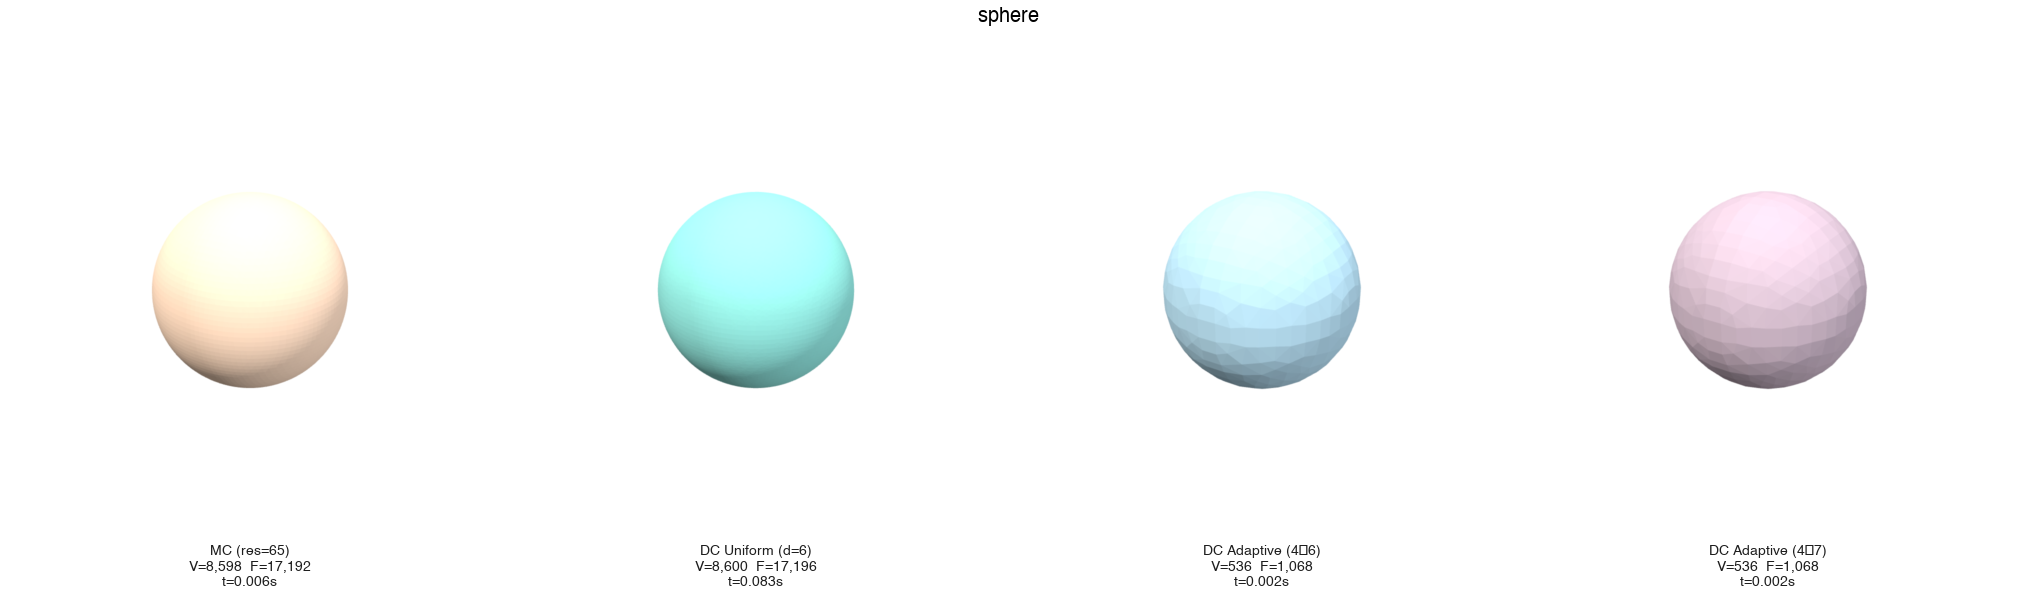
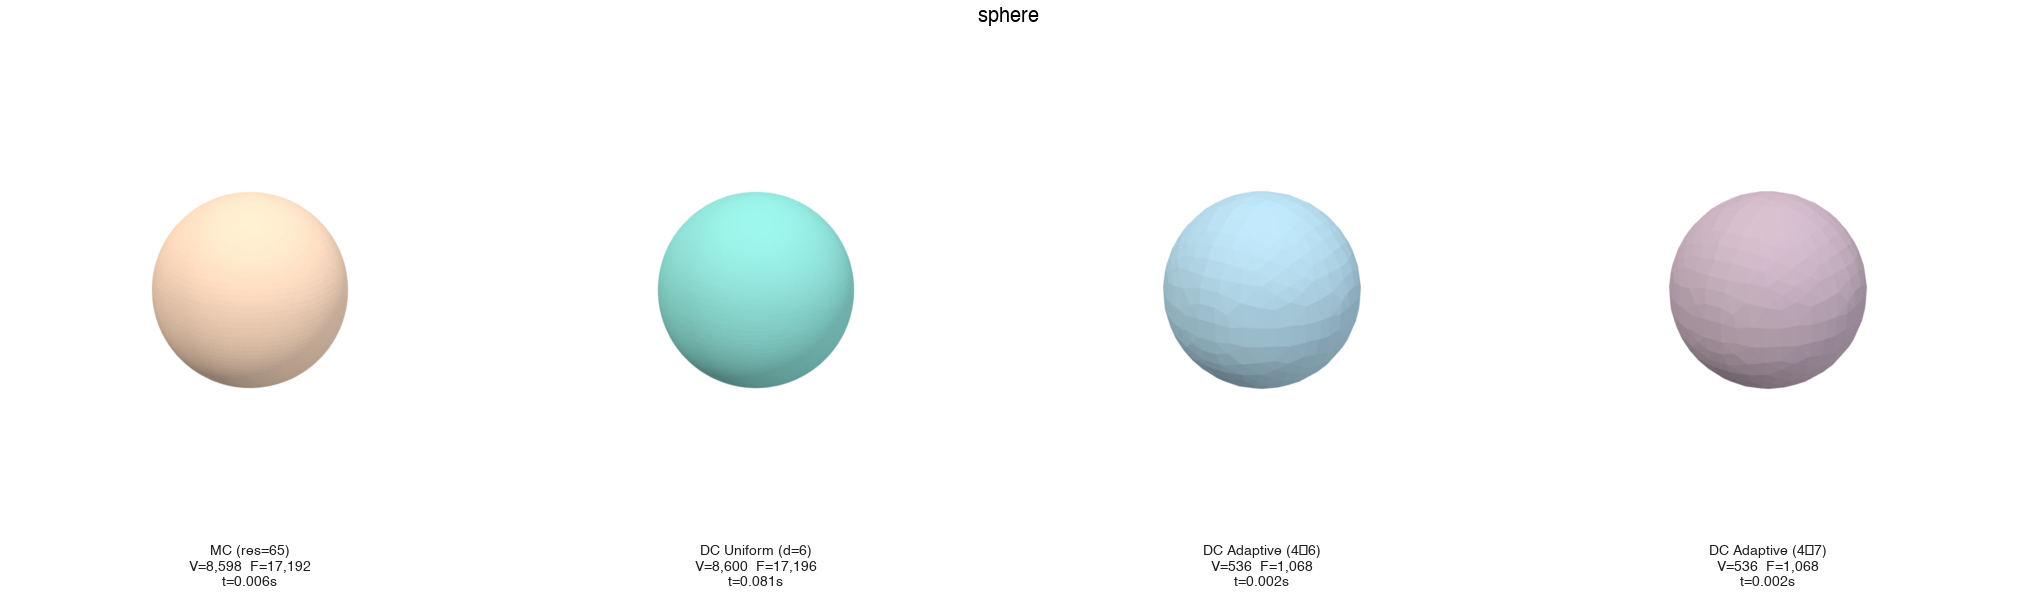
Reduce lighting intensity to fix overexposed benchmark renders
Lowered 3-point light intensities (key 4.5→2.5, fill 2.0→1.2, rim 1.5→0.8)
and raised ambient (0.2→0.3) to eliminate blown-out highlights, especially
on lighter-colored MC meshes.

diff --git a/benchmarks/run_benchmark.py b/benchmarks/run_benchmark.py
@@ -468,7 +468,7 @@ def _render_one(vertices, faces, color_rgb, renderer, elev=25, azim=-60):
 
     scene = pyrender.Scene(
         bg_color=[1.0, 1.0, 1.0, 1.0],
-        ambient_light=[0.2, 0.2, 0.2],
+        ambient_light=[0.3, 0.3, 0.3],
     )
     scene.add(pr_mesh)
 
@@ -483,19 +483,19 @@ def _render_one(vertices, faces, color_rgb, renderer, elev=25, azim=-60):
     # Key light — upper-left of camera
     key_p = _cam_pose(center, extent, elev + 30, azim - 40)
     scene.add(pyrender.DirectionalLight(
-        color=[1.0, 0.98, 0.95], intensity=4.5,
+        color=[1.0, 0.98, 0.95], intensity=2.5,
     ), pose=key_p)
 
     # Fill light — lower-right of camera, cooler
     fill_p = _cam_pose(center, extent, elev - 10, azim + 55)
     scene.add(pyrender.DirectionalLight(
-        color=[0.92, 0.95, 1.0], intensity=2.0,
+        color=[0.92, 0.95, 1.0], intensity=1.2,
     ), pose=fill_p)
 
     # Rim light — behind and above
     rim_p = _cam_pose(center, extent, elev + 50, azim + 160)
     scene.add(pyrender.DirectionalLight(
-        color=[1.0, 1.0, 1.0], intensity=1.5,
+        color=[1.0, 1.0, 1.0], intensity=0.8,
     ), pose=rim_p)
 
     color_img, _ = renderer.render(scene)

diff --git a/output/benchmark_report.md b/output/benchmark_report.md
@@ -6,49 +6,49 @@
 | Shape | Method | V | F | Time (s) | Manifold | Watertight | Euler | Mean SDF Err | Min∠ Mean | Min∠ P5 |
 |-------|--------|--:|--:|--------:|:--------:|:----------:|-----:|-----------:|--------:|------:|
 | sphere | MC (res=65) | 8,598 | 17,192 | 0.006 | ✓ | ✓ | 2 | 9.63e-05 | 31.6° | 5.7° |
-|  | DC Uniform (d=6) | 8,600 | 17,196 | 0.083 | ✓ | ✓ | 2 | 4.57e-17 | 45.2° | 33.3° |
+|  | DC Uniform (d=6) | 8,600 | 17,196 | 0.081 | ✓ | ✓ | 2 | 4.57e-17 | 45.2° | 33.3° |
 |  | DC Adaptive (4→6) | 536 | 1,068 | 0.002 | ✓ | ✓ | 2 | 8.85e-05 | 43.7° | 30.5° |
 |  | DC Adaptive (4→7) | 536 | 1,068 | 0.002 | ✓ | ✓ | 2 | 8.85e-05 | 43.7° | 30.5° |
 | torus | MC (res=65) | 6,448 | 12,896 | 0.004 | ✓ | ✓ | 0 | 2.34e-04 | 32.0° | 3.7° |
-|  | DC Uniform (d=6) | 6,448 | 12,896 | 0.133 | ✓ | ✓ | 0 | 1.55e-05 | 41.0° | 26.2° |
-|  | DC Adaptive (4→6) | 6,448 | 12,896 | 0.036 | ✓ | ✓ | 0 | 1.55e-05 | 41.0° | 26.2° |
-|  | DC Adaptive (4→7) | 6,448 | 12,896 | 0.036 | ✓ | ✓ | 0 | 1.55e-05 | 41.0° | 26.2° |
+|  | DC Uniform (d=6) | 6,448 | 12,896 | 0.141 | ✓ | ✓ | 0 | 1.55e-05 | 41.0° | 26.2° |
+|  | DC Adaptive (4→6) | 6,448 | 12,896 | 0.038 | ✓ | ✓ | 0 | 1.55e-05 | 41.0° | 26.2° |
+|  | DC Adaptive (4→7) | 6,448 | 12,896 | 0.035 | ✓ | ✓ | 0 | 1.55e-05 | 41.0° | 26.2° |
 
 ## Sharp Features
 
 | Shape | Method | V | F | Time (s) | Manifold | Watertight | Euler | Mean SDF Err | Min∠ Mean | Min∠ P5 |
 |-------|--------|--:|--:|--------:|:--------:|:----------:|-----:|-----------:|--------:|------:|
-| box | MC (res=65) | 11,094 | 22,184 | 0.009 | ✓ | ✓ | 2 | 0.00e+00 | 44.1° | 45.0° |
-|  | DC Uniform (d=6) | 11,096 | 22,188 | 0.190 | ✓ | ✓ | 2 | 7.51e-10 | 44.5° | 39.8° |
-|  | DC Adaptive (4→6) | 11,096 | 22,188 | 0.111 | ✓ | ✓ | 2 | 7.51e-10 | 44.5° | 39.8° |
-|  | DC Adaptive (4→7) | 43,352 | 86,700 | 0.741 | ✓ | ✓ | 2 | 1.92e-10 | 44.8° | 45.0° |
-| chamfered_sphere | MC (res=65) | 7,062 | 14,120 | 0.012 | ✓ | ✓ | 2 | 2.58e-04 | 35.5° | 6.1° |
-|  | DC Uniform (d=6) | 7,064 | 14,124 | 0.182 | ✓ | ✓ | 2 | 3.42e-05 | 43.1° | 22.1° |
+| box | MC (res=65) | 11,094 | 22,184 | 0.010 | ✓ | ✓ | 2 | 0.00e+00 | 44.1° | 45.0° |
+|  | DC Uniform (d=6) | 11,096 | 22,188 | 0.175 | ✓ | ✓ | 2 | 7.51e-10 | 44.5° | 39.8° |
+|  | DC Adaptive (4→6) | 11,096 | 22,188 | 0.114 | ✓ | ✓ | 2 | 7.51e-10 | 44.5° | 39.8° |
+|  | DC Adaptive (4→7) | 43,352 | 86,700 | 0.782 | ✓ | ✓ | 2 | 1.92e-10 | 44.8° | 45.0° |
+| chamfered_sphere | MC (res=65) | 7,062 | 14,120 | 0.011 | ✓ | ✓ | 2 | 2.58e-04 | 35.5° | 6.1° |
+|  | DC Uniform (d=6) | 7,064 | 14,124 | 0.197 | ✓ | ✓ | 2 | 3.42e-05 | 43.1° | 22.1° |
 |  | DC Adaptive (4→6) | 7,064 | 14,124 | 0.059 | ✓ | ✓ | 2 | 3.42e-05 | 43.1° | 22.1° |
-|  | DC Adaptive (4→7) | 27,656 | 55,308 | 0.322 | ✓ | ✓ | 2 | 4.58e-05 | 44.2° | 28.7° |
+|  | DC Adaptive (4→7) | 27,656 | 55,308 | 0.333 | ✓ | ✓ | 2 | 4.58e-05 | 44.2° | 28.7° |
 | cylinder | MC (res=65) | 4,326 | 8,648 | 0.004 | ✓ | ✓ | 2 | 2.12e-04 | 34.9° | 4.1° |
 |  | DC Uniform (d=6) | 4,328 | 8,652 | 0.124 | ✓ | ✓ | 2 | 8.94e-05 | 38.1° | 27.2° |
-|  | DC Adaptive (4→6) | 4,328 | 8,652 | 0.031 | ✓ | ✓ | 2 | 8.94e-05 | 38.1° | 27.2° |
-|  | DC Adaptive (4→7) | 17,488 | 34,972 | 0.186 | ✓ | ✓ | 2 | 1.07e-05 | 38.3° | 28.5° |
-| mechanical_part | MC (res=65) | 4,334 | 8,680 | 0.021 | ✓ | ✓ | -6 | 3.25e-04 | 40.3° | 10.1° |
-|  | DC Uniform (d=6) | 4,328 | 8,668 | 0.237 | ✓ | ✓ | -6 | 5.65e-05 | 41.0° | 31.9° |
-|  | DC Adaptive (4→6) | 4,328 | 8,668 | 0.042 | ✓ | ✓ | -6 | 5.65e-05 | 41.0° | 31.9° |
-|  | DC Adaptive (4→7) | 19,336 | 38,684 | 0.246 | ✓ | ✓ | -6 | 9.51e-06 | 39.7° | 26.9° |
+|  | DC Adaptive (4→6) | 4,328 | 8,652 | 0.030 | ✓ | ✓ | 2 | 8.94e-05 | 38.1° | 27.2° |
+|  | DC Adaptive (4→7) | 17,488 | 34,972 | 0.199 | ✓ | ✓ | 2 | 1.07e-05 | 38.3° | 28.5° |
+| mechanical_part | MC (res=65) | 4,334 | 8,680 | 0.020 | ✓ | ✓ | -6 | 3.25e-04 | 40.3° | 10.1° |
+|  | DC Uniform (d=6) | 4,328 | 8,668 | 0.234 | ✓ | ✓ | -6 | 5.65e-05 | 41.0° | 31.9° |
+|  | DC Adaptive (4→6) | 4,328 | 8,668 | 0.044 | ✓ | ✓ | -6 | 5.65e-05 | 41.0° | 31.9° |
+|  | DC Adaptive (4→7) | 19,336 | 38,684 | 0.243 | ✓ | ✓ | -6 | 9.51e-06 | 39.7° | 26.9° |
 
 ## Thin Features
 
 | Shape | Method | V | F | Time (s) | Manifold | Watertight | Euler | Mean SDF Err | Min∠ Mean | Min∠ P5 |
 |-------|--------|--:|--:|--------:|:--------:|:----------:|-----:|-----------:|--------:|------:|
 | thin_shell_hemi | MC (res=65) | 11,010 | 22,016 | 0.005 | ✓ | ✓ | 2 | 6.86e-05 | 31.4° | 1.5° |
-|  | DC Uniform (d=6) | 10,620 | 21,236 | 0.142 | ✓ | ✓ | 2 | 8.29e-09 | 44.2° | 30.5° |
-|  | DC Adaptive (4→6) | 10,620 | 21,236 | 0.054 | ✓ | ✓ | 2 | 8.29e-09 | 44.2° | 30.5° |
-|  | DC Adaptive (4→7) | 42,996 | 85,988 | 0.336 | ✓ | ✓ | 2 | 5.71e-13 | 43.7° | 30.8° |
+|  | DC Uniform (d=6) | 10,620 | 21,236 | 0.139 | ✓ | ✓ | 2 | 8.29e-09 | 44.2° | 30.5° |
+|  | DC Adaptive (4→6) | 10,620 | 21,236 | 0.051 | ✓ | ✓ | 2 | 8.29e-09 | 44.2° | 30.5° |
+|  | DC Adaptive (4→7) | 42,996 | 85,988 | 0.352 | ✓ | ✓ | 2 | 5.71e-13 | 43.7° | 30.8° |
 
 ## Complex Geometry (Mesh-based SDF)
 
 | Shape | Method | V | F | Time (s) | Manifold | Watertight | Euler | Mean SDF Err | Min∠ Mean | Min∠ P5 |
 |-------|--------|--:|--:|--------:|:--------:|:----------:|-----:|-----------:|--------:|------:|
-| simjeb_148 | MC (res=65) | 6,102 | 12,248 | 0.320 | ✓ | ✓ | -22 | 1.35e-03 | 34.6° | 6.3° |
-|  | DC Uniform (d=6) | 6,080 | 12,204 | 2.308 | ✓ | ✓ | -22 | 3.39e-04 | 33.1° | 8.3° |
-|  | DC Adaptive (4→6) | 6,080 | 12,204 | 2.466 | ✓ | ✓ | -22 | 3.39e-04 | 33.1° | 8.3° |
-|  | DC Adaptive (4→7) | 23,920 | 47,884 | 4.012 | ✓ | ✓ | -22 | 9.71e-05 | 36.6° | 12.8° |
+| simjeb_148 | MC (res=65) | 6,102 | 12,248 | 0.311 | ✓ | ✓ | -22 | 1.35e-03 | 34.6° | 6.3° |
+|  | DC Uniform (d=6) | 6,080 | 12,204 | 2.311 | ✓ | ✓ | -22 | 3.39e-04 | 33.1° | 8.3° |
+|  | DC Adaptive (4→6) | 6,080 | 12,204 | 2.496 | ✓ | ✓ | -22 | 3.39e-04 | 33.1° | 8.3° |
+|  | DC Adaptive (4→7) | 23,920 | 47,884 | 3.986 | ✓ | ✓ | -22 | 9.71e-05 | 36.6° | 12.8° |
